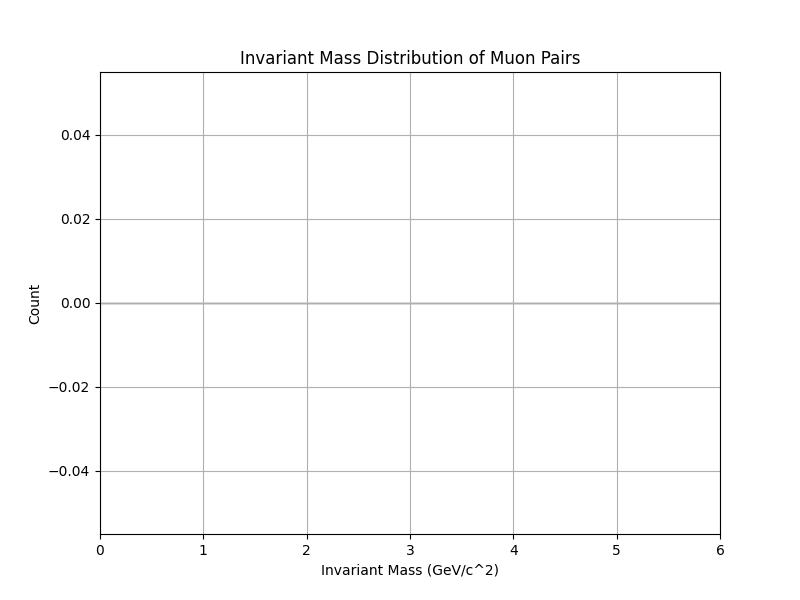
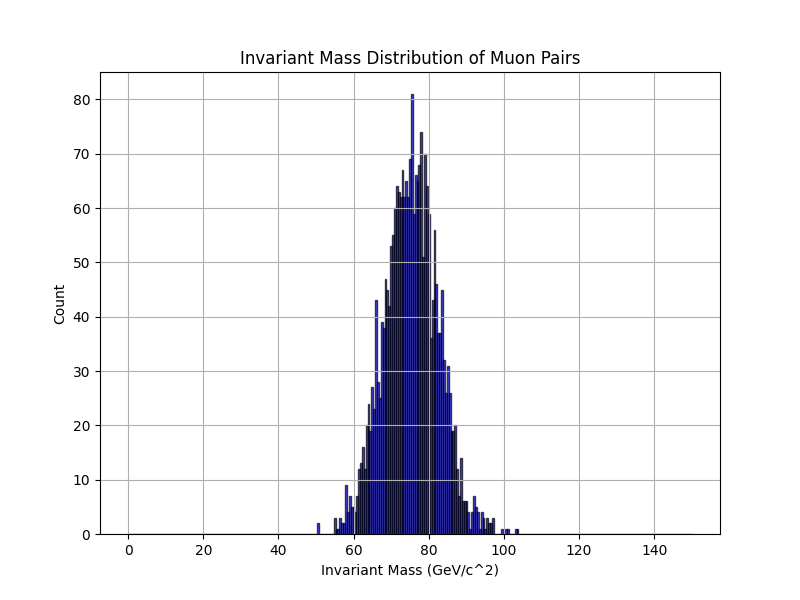
Updated evaluate.py for with match & without match

diff --git a/QTracker_prod/evaluate.py b/QTracker_prod/evaluate.py
@@ -31,28 +31,17 @@ def plot_res_histogram(model_path, y_true, y_pred):
     res_plus = res_plus.numpy()
     res_minus = res_minus.numpy()
 
+    true_plus = y_muPlus_true.numpy()   
+    true_minus = y_muMinus_true.numpy() 
+
     all_res_plus = res_plus.flatten()
     all_res_minus = res_minus.flatten()
 
-    plt.figure(figsize=(8, 6))
-    plt.hist(res_plus, bins=100, alpha=0.5, label='mu+')
-    plt.hist(res_minus, bins=100, alpha=0.5, label='mu-')
-    plt.xlabel('Residual')
-    plt.ylabel('Frequency')
-    plt.legend()
-    plt.title('Residual Histogram')
-
-    plot_name = model_path.replace('models/', '').replace('.keras', '.png').replace('.h5', '.png')
-    plot_path = os.path.join(os.path.dirname(__file__), "plots", plot_name)
-    plt.savefig(plot_path)
-    plt.show()
-
     num_layers = res_plus.shape[1]
     per_slot_stats = []
-
     for layer_idx in range(num_layers):
-        plus_residuals  = res_plus[:, layer_idx] 
-        minus_residuals = res_minus[:, layer_idx] 
+        plus_residuals  = res_plus[:, layer_idx]
+        minus_residuals = res_minus[:, layer_idx]
 
         mean_plus  = np.mean(plus_residuals)
         std_plus   = np.std(plus_residuals)
@@ -60,39 +49,85 @@ def plot_res_histogram(model_path, y_true, y_pred):
         std_minus  = np.std(minus_residuals)
 
         per_slot_stats.append((
-            layer_idx+1,    
+            layer_idx+1,
             mean_plus, std_plus,
             mean_minus, std_minus
         ))
 
-    print("\nPer-slot residual statistics:")
+    per_slot_stats_matched = []  
+    for layer_idx in range(num_layers):
+        mask_plus  = true_plus[:, layer_idx] > 0   
+        mask_minus = true_minus[:, layer_idx] > 0  
+
+        if np.any(mask_plus):  
+            plus_residuals_matched = res_plus[mask_plus, layer_idx]  
+            mean_plus_m  = np.mean(plus_residuals_matched)           
+            std_plus_m   = np.std(plus_residuals_matched)            
+        else:
+            mean_plus_m, std_plus_m = 0.0, 0.0                        
+
+        if np.any(mask_minus): 
+            minus_residuals_matched = res_minus[mask_minus, layer_idx]  
+            mean_minus_m = np.mean(minus_residuals_matched)             
+            std_minus_m  = np.std(minus_residuals_matched)              
+        else:
+            mean_minus_m, std_minus_m = 0.0, 0.0                         
+
+        per_slot_stats_matched.append((  
+            layer_idx+1,                                           
+            mean_plus_m, std_plus_m, mean_minus_m, std_minus_m     
+        ))                                                         
+
+    print("\nPer-slot residual statistics (all detectors):")
     print(" layer |   μ⁺ mean   |  μ⁺ σ   |  μ- mean   |  μ- σ")
     print("--------------------------------------------------")
     for (layer, m_p, s_p, m_m, s_m) in per_slot_stats:
         print(f" {layer:2d}   |   {m_p:+6.3f}  | {s_p:6.3f} |   {m_m:+6.3f}  | {s_m:6.3f}")
 
-    layers      = np.arange(1, num_layers+1)
-    mu_plus_means  = np.array([x[1] for x in per_slot_stats])
-    mu_plus_stds   = np.array([x[2] for x in per_slot_stats])
-    mu_minus_means = np.array([x[3] for x in per_slot_stats])
-    mu_minus_stds  = np.array([x[4] for x in per_slot_stats])
+    print("\nPer-slot residual statistics (matched only):")  
+    print(" layer |   μ⁺ mean   |  μ⁺ σ   |  μ- mean   |  μ- σ")  
+    print("--------------------------------------------------")  
+    for (layer, m_p_m, s_p_m, m_m_m, s_m_m) in per_slot_stats_matched:  
+        print(f" {layer:2d}   |   {m_p_m:+6.3f}  | {s_p_m:6.3f} |   {m_m_m:+6.3f}  | {s_m_m:6.3f}")  
 
-    plt.figure(figsize=(10, 4))
-    plt.errorbar(layers, mu_plus_means,  yerr=mu_plus_stds,  fmt='o-', label='μ⁺ mean±σ',  capsize=2)
-    plt.errorbar(layers, mu_minus_means, yerr=mu_minus_stds, fmt='s-', label='μ- mean±σ', capsize=2)
+    layers = np.arange(1, num_layers+1)
+
+    mu_plus_means  = np.array([x[1] for x in per_slot_stats])
+    mu_minus_means = np.array([x[3] for x in per_slot_stats])
+
+
+    mu_plus_means_m  = np.array([x[1] for x in per_slot_stats_matched])  
+    mu_minus_means_m = np.array([x[3] for x in per_slot_stats_matched])  
+
+    width = 0.4
+    plt.figure(figsize=(12, 5))
+    plt.bar(layers - width/2, mu_plus_means, width, label='μ⁺ mean (all)') 
+    plt.bar(layers + width/2, mu_minus_means, width, label='μ- mean (all)') 
     plt.xlabel("Detector Layer (1 … 62)")
     plt.ylabel("Residual (predicted − true)")
-    plt.title("Per-layer Residual: mean ± σ")
+    plt.title("Per-layer Residual Means (All Detectors)")
     plt.axhline(0, color='black', lw=1, linestyle='--')
     plt.legend()
     plt.tight_layout()
-    plt.savefig(os.path.join(os.path.dirname(__file__), "plots", "per_layer_residuals.png"))
+    plt.savefig(os.path.join(os.path.dirname(__file__), "plots", "per_layer_means_all.png"))
     plt.show()
+ 
+    plt.figure(figsize=(12, 5))  
+    plt.bar(layers - width/2, mu_plus_means_m, width, label='μ⁺ mean (matched)')   
+    plt.bar(layers + width/2, mu_minus_means_m, width, label='μ- mean (matched)') 
+    plt.xlabel("Detector Layer (1 … 62)")  
+    plt.ylabel("Residual (predicted − true)")  
+    plt.title("Per-layer Residual Means (Matched Only)")  
+    plt.axhline(0, color='black', lw=1, linestyle='--')  
+    plt.legend()  
+    plt.tight_layout()  
+    plt.savefig(os.path.join(os.path.dirname(__file__), "plots", "per_layer_means_matched.png"))  
+    plt.show()  
 
-    global_mean_plus  = np.mean(all_res_plus)  
-    global_std_plus   = np.std(all_res_plus)  
-    global_mean_minus = np.mean(all_res_minus) 
-    global_std_minus  = np.std(all_res_minus)  
+    global_mean_plus  = np.mean(all_res_plus)
+    global_std_plus   = np.std(all_res_plus)
+    global_mean_minus = np.mean(all_res_minus)
+    global_std_minus  = np.std(all_res_minus)
     return (global_mean_plus, global_std_plus, global_mean_minus, global_std_minus)
 
 
@@ -103,12 +138,12 @@ def evaluate_model(root_file, model_path):
         X, y_muPlus, y_muMinus = TrackFinder_attention.load_data(root_file)
     if X is None:
         return
-    
-    y = np.stack([y_muPlus, y_muMinus], axis=1)  # Shape: (num_events, 2, 62)
+
+    y = np.stack([y_muPlus, y_muMinus], axis=1)  
     _, X_test, _, y_test = train_test_split(X, y, test_size=0.2, random_state=42)
 
     custom_objects = {
-        "custom_loss": TrackFinder_prod.custom_loss, 
+        "custom_loss": TrackFinder_prod.custom_loss,
         "Adam": tf.keras.optimizers.legacy.Adam
     }
 
@@ -117,7 +152,7 @@ def evaluate_model(root_file, model_path):
         custom_objects['ChannelMaxPool'] = ChannelMaxPool
         custom_objects['SpatialAvgPool'] = SpatialAvgPool
         custom_objects['SpatialMaxPool'] = SpatialMaxPool
-    
+
     with tf.keras.utils.custom_object_scope(custom_objects):
         model = tf.keras.models.load_model(model_path)
 

diff --git a/QTracker_prod/Util/imass_plot.py b/QTracker_prod/Util/imass_plot.py
@@ -3,8 +3,6 @@ import numpy as np
 import matplotlib.pyplot as plt
 import argparse
 
-from ROOT import TLorentzVector
-
 def calculate_invariant_mass(tlv1, tlv2):
     """Computes the invariant mass of two particles using TLorentzVectors."""
     return (tlv1 + tlv2).M()
@@ -12,34 +10,15 @@ def calculate_invariant_mass(tlv1, tlv2):
 def extract_momenta_and_calculate_mass(root_file):
     """Extracts momenta from ROOT file and computes invariant mass using TLorentzVectors."""
     f = ROOT.TFile.Open(root_file, "READ")
-
-    if not f or f.IsZombie():
-        print("Error: could not open file", root_file)
-        return np.array([])
-
     tree = f.Get("tree")
 
     if not tree:
         print("Error: Tree not found in file.")
         return np.array([])
-    
-    n_entries = tree.GetEntries()
-    print(f"  → Found {n_entries} entries in 'tree' of {root_file}.\n")
 
     masses = []
-    saw_first = False
     
     for event in tree:
-        print("=== DEBUG: inspecting Event #0 ===")
-        print(" muID       =", list(event.muID))
-        print(" qpx        =", list(event.qpx))
-        print(" qpy        =", list(event.qpy))
-        print(" qpz        =", list(event.qpz))
-        print(" qpx shape? ", np.shape(event.qpx))
-        print(" node: tlv constructors ok? TLV.GetClassName() =", TLorentzVector().ClassName())
-        print("================================\n")
-        saw_first = True
-        
         tlv_mup = ROOT.TLorentzVector()
         tlv_mum = ROOT.TLorentzVector()
 
@@ -60,12 +39,13 @@ def extract_momenta_and_calculate_mass(root_file):
     return np.array(masses)
 
 def plot_invariant_mass(masses, output_file="invariant_mass.png"):
+    print(masses)
     plt.figure(figsize=(8,6))
-    plt.hist(masses, bins=np.linspace(0, 6, 300), alpha=0.7, color='b', edgecolor='black')
+    plt.hist(masses, bins=np.linspace(0, 150, 300), alpha=0.7, color='b', edgecolor='black')
     plt.xlabel("Invariant Mass (GeV/c^2)")
     plt.ylabel("Count")
     plt.title("Invariant Mass Distribution of Muon Pairs")
-    plt.xlim(0, 6)  # Keep full range
+    # plt.xlim(0, 150)  # Keep full range
     plt.grid()
     plt.savefig(output_file)
     plt.show()

diff --git a/QTracker_prod/data/messy_gen.py b/QTracker_prod/data/messy_gen.py
@@ -1,6 +1,7 @@
 import ROOT
 import numpy as np
 from array import array
+from training_scripts.TrackFinder_prod import predict_hit_arrays, refine_hit_arrays
 
 
 def inject_tracks(file1, file2, output_file, num_tracks, prob_mean, prob_width, propagation_model, gaussian_sigma, exp_decay_const):
